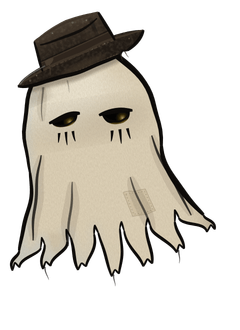
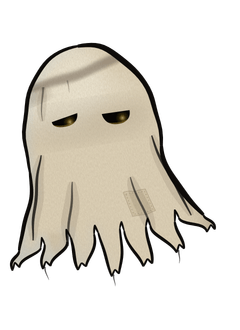
fix(buster): his lids lie over his brass points, as the drawing paints them
The tenth review proved the app drew Buster's live brass points over
everything, his lids included: the drawing paints each lid over its point,
so suspicious's low lids cut its points to half-moons, and in the app the
whole disc sat on the lid (twice the brass of the design at 48).

- drawing.mjs marks what it paints over the points (the lids and lines under
  each hole, the drip, startled's marks, the hat, the seat backs) with over().
- render.mjs writes a picture with points as two layers: <key>.png, what lies
  under the points, and <key>-over.png, what lies over them. It refuses a
  stroke drawn after the points that is not marked over (it would land under
  them), and refuses layers that do not add back up to the drawing (at most 3
  of 255 in what each pixel draws).
- Buster and BusterStill lay picture, points, over, inside the same sway; only
  the points glance. Each arrives with both layers, so the points never show
  without their lids.
- The tests hold the order (picture, points, lids), the wait for both layers,
  and every layer of every picture at every density.

Laid as the app lays them, the shipped 4x layers match the drawing's brass
(suspicious-48: 10 brass pixels against the drawing's 11, none on a lid).
Each fix was broken on purpose and caught: 6 of 6 in the tests, and both of
the renderer's refusals.

Changed region(s): [[0.0583, 0.0303, 0.6125, 0.2727], [0.4083, 0.303, 0.5542, 0.4242], [0.2042, 0.3333, 0.35, 0.4545]]

diff --git a/mobile/src/components/__tests__/Buster.test.tsx b/mobile/src/components/__tests__/Buster.test.tsx
@@ -40,6 +40,12 @@ const ofType = (json: unknown, type: string) => hosts(json).filter((n) => n.type
 const flat = (style: unknown): Record<string, unknown> =>
   Array.isArray(style) ? Object.assign({}, ...style.map(flat)) : ((style as Record<string, unknown>) ?? {});
 const layout = (height: number, width = 80) => ({ nativeEvent: { layout: { x: 0, y: 0, width, height } } });
+/** Both his layers say they have loaded: the picture under his points, and the lids over them where he has points. */
+async function loadAll(view: ReturnType<typeof render>) {
+  await fireEvent(view.getByTestId('buster-picture', { includeHiddenElements: true }), 'load');
+  const over = view.queryByTestId('buster-over', { includeHiddenElements: true });
+  if (over) await fireEvent(over, 'load');
+}
 const pictures = (Object.keys(BUSTER_ART) as BusterArtKey[]).map((key) => {
   const [mood, size] = key.split('-');
   return { key, picture: { mood, size: Number(size) } as BusterPicture };
@@ -60,8 +66,8 @@ describe('Buster', () => {
       const art = BUSTER_ART[key];
       const view = render(<Buster {...picture} />);
       const image = ofType(view.toJSON(), 'ExpoImage');
-      expect(image).toHaveLength(1);
-      expect(image[0].props.source).toBe(art.picture);
+      expect(image.map((i) => i.props.source)).toEqual(art.over ? [art.picture, art.over] : [art.picture]);
+      expect(Boolean(art.over)).toBe(art.eyes.length > 0); // every picture with points has its lids apart
       // His room is exactly the picture's size; the picture fills the figure that fills it.
       expect(flat(view.getByTestId(`buster-${picture.mood}`, { includeHiddenElements: true }).props.style)).toMatchObject({ width: art.width, height: art.height });
       expect(flat(view.getByTestId('buster-figure', { includeHiddenElements: true }).props.style)).toMatchObject({ height: '100%', aspectRatio: art.width / art.height });
@@ -76,6 +82,16 @@ describe('Buster', () => {
     return flat(view.getByTestId('buster-figure', { includeHiddenElements: true }).props.style).opacity;
   };
 
+  it('lays his lids over his points, as the drawing paints them: picture, points, lids', async () => {
+    for (const [still, mood] of [[false, 'suspicious'], [true, 'moved']] as const) {
+      const view = render(still ? <BusterStill mood={mood} size={80} /> : <Buster mood={mood} size={80} />);
+      if (!still) await fireEvent(view.getByTestId(`buster-${mood}`, { includeHiddenElements: true }), 'layout', layout(110));
+      await loadAll(view);
+      const order = hosts(view.toJSON()).map((n) => (n.props.testID === 'buster-picture' ? 'picture' : n.props.testID === 'buster-over' ? 'lids' : n.type === 'RNSVGCircle' ? 'point' : null)).filter(Boolean);
+      expect([still, [...new Set(order)]]).toEqual([still, ['picture', 'point', 'lids']]);
+    }
+  });
+
   it('arrives only once his picture has loaded AND his room is laid out, in either order', async () => {
     // Laid out first, picture later.
     const a = render(<Buster mood="unimpressed" size={80} />);
@@ -83,11 +99,13 @@ describe('Buster', () => {
     await fireEvent(a.getByTestId('buster-unimpressed', { includeHiddenElements: true }), 'layout', layout(110));
     expect(shownIn(a, 2)).toBe(0); // laid out, but the picture has not said it is loaded
     await fireEvent(a.getByTestId('buster-picture', { includeHiddenElements: true }), 'load');
-    expect(shownIn(a, 3)).toBe(1);
+    expect(shownIn(a, 3)).toBe(0); // the picture, but not yet the lids over his points
+    await fireEvent(a.getByTestId('buster-over', { includeHiddenElements: true }), 'load');
+    expect(shownIn(a, 4)).toBe(1);
 
     // Picture first, layout later.
     const b = render(<Buster mood="unimpressed" size={80} />);
-    await fireEvent(b.getByTestId('buster-picture', { includeHiddenElements: true }), 'load');
+    await loadAll(b);
     expect(shownIn(b, 1)).toBe(0); // loaded, but not yet given his place
     await fireEvent(b.getByTestId('buster-unimpressed', { includeHiddenElements: true }), 'layout', layout(110));
     expect(shownIn(b, 2)).toBe(1);
@@ -126,11 +144,11 @@ describe('Buster', () => {
 
     await fireEvent(room, 'layout', layout(50)); // under half: he steps aside...
     expect(standing().opacity).toBe(0);
-    expect(pictures()).toHaveLength(1); // ...hidden, not taken down: his picture stays decoded
+    expect(pictures()).toHaveLength(2); // ...hidden, not taken down: both his layers stay decoded
 
     await fireEvent(room, 'layout', layout(110)); // the keyboard goes: so does his absence
     expect(standing().opacity).toBeUndefined();
-    expect(pictures()).toHaveLength(1);
+    expect(pictures()).toHaveLength(2);
   });
 
   it('glances and rises by distances that shrink with him, so his points never leave their holes', async () => {
@@ -142,7 +160,7 @@ describe('Buster', () => {
       return ((flat(layer!.props.style).transform as Record<string, number>[]).find((t) => key in t)!)[key];
     };
     await fireEvent(room, 'layout', layout(110));
-    await fireEvent(view.getByTestId('buster-picture', { includeHiddenElements: true }), 'load');
+    await loadAll(view);
     view.rerender(<Buster mood="suspicious" size={80} style={{ margin: 1 }} />);
     const glance = moved('translateX'), rise = moved('translateY');
     expect(glance).not.toBe(0);
@@ -174,7 +192,7 @@ describe('Buster', () => {
   /** Lays him out whole and loads his picture: he has arrived. */
   async function arrived(view: ReturnType<typeof render>, mood: string, height: number) {
     await fireEvent(view.getByTestId(`buster-${mood}`, { includeHiddenElements: true }), 'layout', layout(height));
-    await fireEvent(view.getByTestId('buster-picture', { includeHiddenElements: true }), 'load');
+    await loadAll(view);
   }
 
   it('moves only once he can be seen, while his screen is in front and Reduce Motion is off, with no loop he has no use for', async () => {
@@ -255,8 +273,9 @@ describe('BusterStill', () => {
   it('keeps its brass points back until the picture is there, so they never show alone', async () => {
     const view = render(<BusterStill mood="moved" size={80} />);
     expect(ofType(view.toJSON(), 'RNSVGCircle')).toHaveLength(0);
-    const image = view.getByTestId('buster-picture', { includeHiddenElements: true });
-    await fireEvent(image, 'load');
+    await fireEvent(view.getByTestId('buster-picture', { includeHiddenElements: true }), 'load');
+    expect(ofType(view.toJSON(), 'RNSVGCircle')).toHaveLength(0); // the lids over them are not in yet
+    await fireEvent(view.getByTestId('buster-over', { includeHiddenElements: true }), 'load');
     expect(ofType(view.toJSON(), 'RNSVGCircle')).toHaveLength(BUSTER_ART['moved-80'].eyes.length * 2);
   });
 });

diff --git a/mobile/src/components/Buster.tsx b/mobile/src/components/Buster.tsx
@@ -112,7 +112,12 @@ const Buster = memo(function Buster({ message, style, ...picture }: BusterPictur
   const seated = picture.mood === 'seated';
   const hasEyes = art.eyes.length > 0;
 
-  const [loaded, setLoaded] = useState(false);
+  // Both his layers, the picture under his points and the lids over them: he
+  // arrives with both, so his points never show without their lids.
+  const [pictureIn, setPictureIn] = useState(false);
+  const [overIn, setOverIn] = useState(!art.over);
+  const loaded = pictureIn && overIn;
+  const setLoaded = useCallback(() => { setPictureIn(true); setOverIn(true); }, []);
   // The share of his height the layout gave him: null until laid out. Rounded
   // down to fiftieths, so a keyboard sliding in redraws him a few times, not every frame.
   const [fit, setFit] = useState<number | null>(null);
@@ -124,9 +129,9 @@ const Buster = memo(function Buster({ message, style, ...picture }: BusterPictur
   const stands = fit !== null && fit >= MIN_FIT;
   useEffect(() => {
     if (!laidOut) return;
-    const grace = setTimeout(() => setLoaded(true), LOAD_GRACE_MS);
+    const grace = setTimeout(setLoaded, LOAD_GRACE_MS);
     return () => clearTimeout(grace);
-  }, [laidOut]);
+  }, [laidOut, setLoaded]);
 
   const shown = useSharedValue(0);
   useEffect(() => {
@@ -200,9 +205,13 @@ const Buster = memo(function Buster({ message, style, ...picture }: BusterPictur
           <Animated.View testID="buster-figure" style={[{ height: '100%', aspectRatio: w / h }, appear]}>
             {!seated && <Animated.View style={[StyleSheet.absoluteFill, floor]}><Shadow art={art} /></Animated.View>}
             <Animated.View style={[StyleSheet.absoluteFill, { transformOrigin: [`${art.pivot.x * 100}%`, `${art.pivot.y * 100}%`, 0] }, body]}>
-              <Image testID="buster-picture" source={art.picture} style={s.fill} contentFit="fill" onLoad={() => setLoaded(true)} accessible={false} />
+              <Image testID="buster-picture" source={art.picture} style={s.fill} contentFit="fill" onLoad={() => setPictureIn(true)} accessible={false} />
               {hasEyes && (
                 <Animated.View style={[StyleSheet.absoluteFill, eyes]}><Points art={art} /></Animated.View>
+              )}
+              {/* What the drawing paints over his points: a low lid cuts a point to a half-moon. */}
+              {art.over && (
+                <Image testID="buster-over" source={art.over} style={StyleSheet.absoluteFill} contentFit="fill" onLoad={() => setOverIn(true)} accessible={false} />
               )}
             </Animated.View>
           </Animated.View>
@@ -227,11 +236,14 @@ export default Buster;
  */
 export function BusterStill(picture: BusterPicture) {
   const art = artOf(picture);
-  const [loaded, setLoaded] = useState(false);
+  const [pictureIn, setPictureIn] = useState(false);
+  const [overIn, setOverIn] = useState(!art.over);
+  const size = { width: art.width, height: art.height };
   return (
-    <View testID={`buster-still-${picture.mood}`} style={{ width: art.width, height: art.height }} {...UNSPOKEN}>
-      <Image testID="buster-picture" source={art.picture} style={{ width: art.width, height: art.height }} contentFit="fill" onLoad={() => setLoaded(true)} accessible={false} />
-      {loaded && art.eyes.length > 0 ? <Points art={art} /> : null}
+    <View testID={`buster-still-${picture.mood}`} style={size} {...UNSPOKEN}>
+      <Image testID="buster-picture" source={art.picture} style={size} contentFit="fill" onLoad={() => setPictureIn(true)} accessible={false} />
+      {pictureIn && overIn && art.eyes.length > 0 ? <Points art={art} /> : null}
+      {art.over && <Image testID="buster-over" source={art.over} style={StyleSheet.absoluteFill} contentFit="fill" onLoad={() => setOverIn(true)} accessible={false} />}
     </View>
   );
 }

diff --git a/mobile/src/components/busterArt.ts b/mobile/src/components/busterArt.ts
@@ -2,6 +2,10 @@
  * Every picture of Buster the app ships, and what was measured on each.
  * Written by the renderer beside the drawing (brand/buster); not by hand.
  *
+ * A picture with brass points comes in two: `picture` is what lies under the
+ * points, `over` what the drawing paints over them (the lids, the lines, the
+ * hat). The app lays picture, points, over, in that order.
+ *
  * Fractions of the picture: `eyes` where each brass point sits and how big it
  * is, `glance` how far (and, by its sign, which way) the points may slide and
  * stay inside their holes, `hem` how far down the sheet ends, `pivot` where
@@ -10,6 +14,7 @@
 export const BUSTER_ART = {
   'unimpressed-48': {
     picture: require('../../assets/buster/unimpressed-48.png'),
+    over: require('../../assets/buster/unimpressed-48-over.png'),
     width: 48, height: 66,
     eyes: [{ x: 0.359, y: 0.3648, r: 0.0107 }, { x: 0.5788, y: 0.3629, r: 0.0107 }],
     glance: 0.0237,
@@ -18,6 +23,7 @@ export const BUSTER_ART = {
   },
   'unimpressed-80': {
     picture: require('../../assets/buster/unimpressed-80.png'),
+    over: require('../../assets/buster/unimpressed-80-over.png'),
     width: 80, height: 110,
     eyes: [{ x: 0.359, y: 0.3648, r: 0.0082 }, { x: 0.5788, y: 0.3629, r: 0.0082 }],
     glance: 0.0237,
@@ -26,6 +32,7 @@ export const BUSTER_ART = {
   },
   'suspicious-48': {
     picture: require('../../assets/buster/suspicious-48.png'),
+    over: require('../../assets/buster/suspicious-48-over.png'),
     width: 48, height: 66,
     eyes: [{ x: 0.2911, y: 0.3696, r: 0.0107 }, { x: 0.5104, y: 0.3574, r: 0.0107 }],
     glance: -0.0237,
@@ -34,6 +41,7 @@ export const BUSTER_ART = {
   },
   'suspicious-56': {
     picture: require('../../assets/buster/suspicious-56.png'),
+    over: require('../../assets/buster/suspicious-56-over.png'),
     width: 56, height: 77,
     eyes: [{ x: 0.2911, y: 0.3696, r: 0.0099 }, { x: 0.5104, y: 0.3574, r: 0.0099 }],
     glance: -0.0237,
@@ -42,6 +50,7 @@ export const BUSTER_ART = {
   },
   'suspicious-80': {
     picture: require('../../assets/buster/suspicious-80.png'),
+    over: require('../../assets/buster/suspicious-80-over.png'),
     width: 80, height: 110,
     eyes: [{ x: 0.2911, y: 0.3696, r: 0.0082 }, { x: 0.5104, y: 0.3574, r: 0.0082 }],
     glance: -0.0237,
@@ -50,6 +59,7 @@ export const BUSTER_ART = {
   },
   'moved-80': {
     picture: require('../../assets/buster/moved-80.png'),
+    over: require('../../assets/buster/moved-80-over.png'),
     width: 80, height: 110,
     eyes: [{ x: 0.3585, y: 0.4182, r: 0.0086 }, { x: 0.5874, y: 0.4156, r: 0.0086 }],
     glance: 0.0237,
@@ -58,6 +68,7 @@ export const BUSTER_ART = {
   },
   'dimmed-80': {
     picture: require('../../assets/buster/dimmed-80.png'),
+    over: null,
     width: 80, height: 110,
     eyes: [],
     glance: 0,
@@ -66,6 +77,7 @@ export const BUSTER_ART = {
   },
   'seated-48': {
     picture: require('../../assets/buster/seated-48.png'),
+    over: require('../../assets/buster/seated-48-over.png'),
     width: 48, height: 54,
     eyes: [{ x: 0.359, y: 0.4458, r: 0.0107 }, { x: 0.5788, y: 0.4435, r: 0.0107 }],
     glance: 0.0237,

diff --git a/mobile/src/components/__tests__/busterRegister.test.ts b/mobile/src/components/__tests__/busterRegister.test.ts
@@ -142,16 +142,23 @@ describe('the pictures he is drawn from', () => {
   const keys = Object.keys(BUSTER_ART) as (keyof typeof BUSTER_ART)[];
   const name = (key: string, scale: number) => `${key}${scale === 1 ? '' : `@${scale}x`}.png`;
 
-  it('are exactly the ones the app reads: every density of every picture, and nothing else', () => {
-    const expected = keys.flatMap((k) => [1, 2, 3, 4].map((s) => name(k, s))).sort();
+  /** Each picture's layers: the one under the points, and the lids over them where it has points. */
+  const layersOf = (key: (typeof keys)[number]) => (BUSTER_ART[key].over ? [key, `${key}-over`] : [key]);
+
+  it('are exactly the ones the app reads: every density of every layer of every picture, and nothing else', () => {
+    const expected = keys.flatMap((k) => layersOf(k).flatMap((l) => [1, 2, 3, 4].map((s) => name(l, s)))).sort();
     expect(readdirSync(dir).sort()).toEqual(expected);
+    // A picture with points comes with the lids that lie over them; one without, alone.
+    for (const key of keys) expect([key, Boolean(BUSTER_ART[key].over)]).toEqual([key, BUSTER_ART[key].eyes.length > 0]);
   });
 
   it('are each exactly the pixels their density needs: no phone ever stretches one', () => {
     for (const key of keys) {
       const { width, height } = BUSTER_ART[key];
-      for (const scale of [1, 2, 3, 4]) {
-        expect([key, scale, pngSize(join(dir, name(key, scale)))]).toEqual([key, scale, [width * scale, height * scale]]);
+      for (const layer of layersOf(key)) {
+        for (const scale of [1, 2, 3, 4]) {
+          expect([layer, scale, pngSize(join(dir, name(layer, scale)))]).toEqual([layer, scale, [width * scale, height * scale]]);
+        }
       }
     }
   });

diff --git a/mobile/scripts/COMMENTS-READ.md b/mobile/scripts/COMMENTS-READ.md
@@ -213,8 +213,8 @@ without one). "Read" is the day its comments were last read against its code.
 | src/components/__tests__/aComponentHasOneName.guard.test.ts | 2026-10-02 | Written in the launch audit: no two modules export a component under one name. |
 | src/components/__tests__/aSuspensionIsSaid.test.tsx | 2026-10-02 | Written in the launch audit: a silenced or suspended member is told, and told when it ends. |
 | src/components/__tests__/aTabIsTouchedWhereItIs.test.tsx | 2026-10-02 | Written 2026-10-02 (launch audit): a tab reaches no further than its own edges. |
-| src/components/__tests__/Buster.test.tsx | 2026-10-04 | edited: every picture with points glances exactly as far as measured |
-| src/components/__tests__/busterRegister.test.ts | 2026-10-04 | edited: every picture carries its glance; suspicious glances left |
+| src/components/__tests__/Buster.test.tsx | 2026-10-04 | edited: the lids lie over the points; arrival and the still one wait for both layers |
+| src/components/__tests__/busterRegister.test.ts | 2026-10-04 | edited: every layer of every picture, at every density |
 | src/components/__tests__/theInitiationTellsTheTruth.test.tsx | 2026-10-02 | Written 2026-10-02 (launch audit): the induction promises only what a new member has. |
 | src/components/Arrive.tsx | 2026-10-01 | written: useArrival as a view |
 | src/components/__tests__/ActionDeck.test.tsx | 2026-10-01 | rendered: owner, certify, save, stranger |
@@ -249,8 +249,8 @@ without one). "Read" is the day its comments were last read against its code.
 | src/components/auth/PasswordStrengthMeter.tsx | 2026-10-03 | read whole: one answer for a new password; says when it is too long for the lock |
 | src/components/auth/SocietySeal.tsx | 2026-10-01 | true as written |
 | src/components/AutopsyGauge.tsx | 2026-10-01 | true as written |
-| src/components/Buster.tsx | 2026-10-04 | edited: his points glance as far, and the way, measured on each picture |
-| src/components/busterArt.ts | 2026-10-04 | regenerated: each picture carries its measured glance |
+| src/components/Buster.tsx | 2026-10-04 | edited: picture, points, then the lids over them; he arrives with both layers |
+| src/components/busterArt.ts | 2026-10-04 | regenerated: a picture with points carries the layer over them |
 | src/components/CinematicOverlays.tsx | 2026-10-01 | the dead film grain gone |
 | src/components/clearance/__tests__/oneRopeNotThree.test.tsx | — |  |
 | src/components/clearance/Clearance.tsx | 2026-10-01 | show it, locked; a second copy lives in the log (carried forward) |

diff --git a/brand/buster/README.md b/brand/buster/README.md
@@ -68,7 +68,15 @@ node brand/buster/render.mjs --brand   # this folder's art/
 The app's pictures are drawn four times over and brought down with a Lanczos
 filter to the exact pixels each screen density needs (1x to 4x), so no phone
 ever stretches one. Their brass points are left out and measured, because the
-app draws them live: they blink and glance aside. `mobile/src/components/busterArt.ts`
+app draws them live: they blink and glance aside. So a picture with points comes
+in two layers: `<mood>-<size>.png`, what lies under the points, and
+`<mood>-<size>-over.png`, what the drawing paints over them (the lids and the
+lines under the holes, the hat, the seat backs). The app lays picture, points,
+over, so a low lid still cuts a point to a half-moon. Anything drawn after the
+eyes must go through `over()` in `drawing.mjs`: the run refuses a stroke painted
+after the points that would land under them, refuses layers that do not add up
+to the drawing, and measures how far each way the points may glance and stay in
+their holes. `mobile/src/components/busterArt.ts`
 is written by the same run and should never be edited by hand. In the app, the
 test `busterRegister.test.ts` holds where he may appear and checks every
 picture's pixels.
